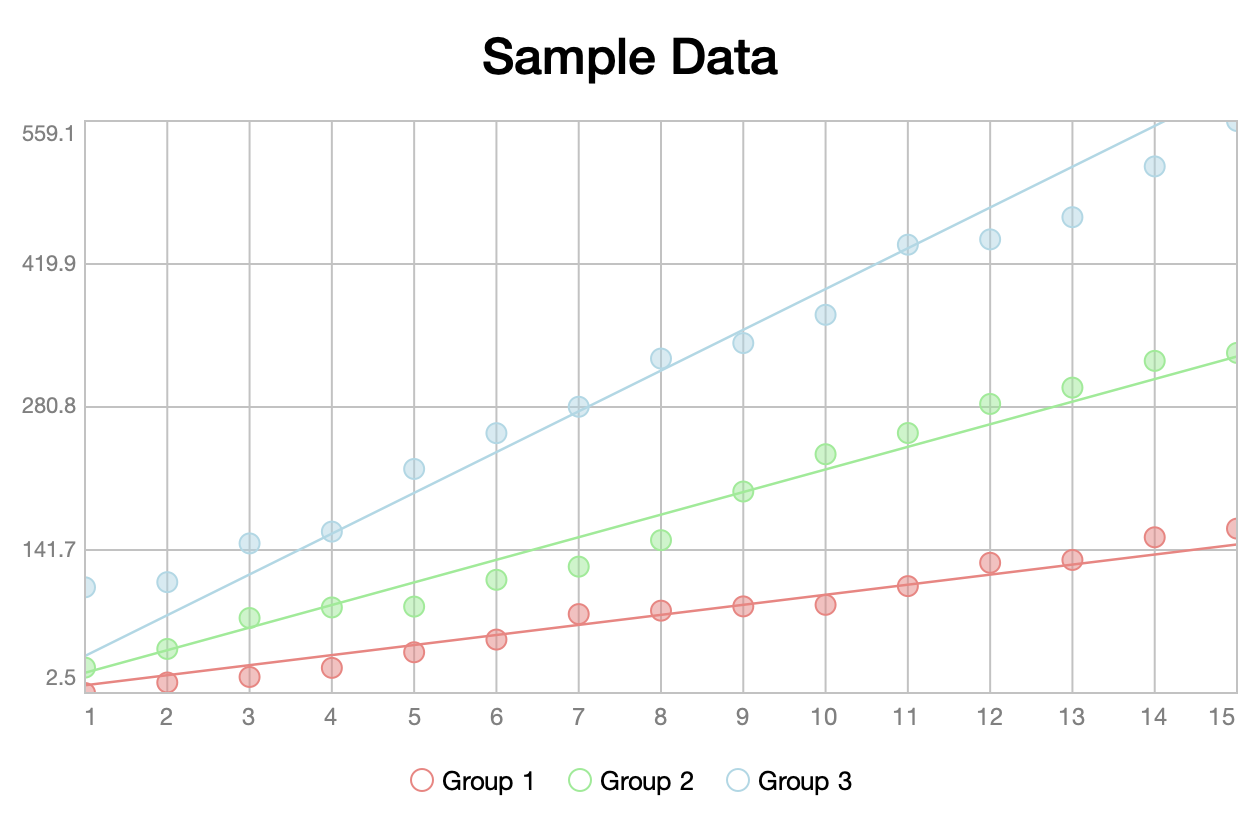
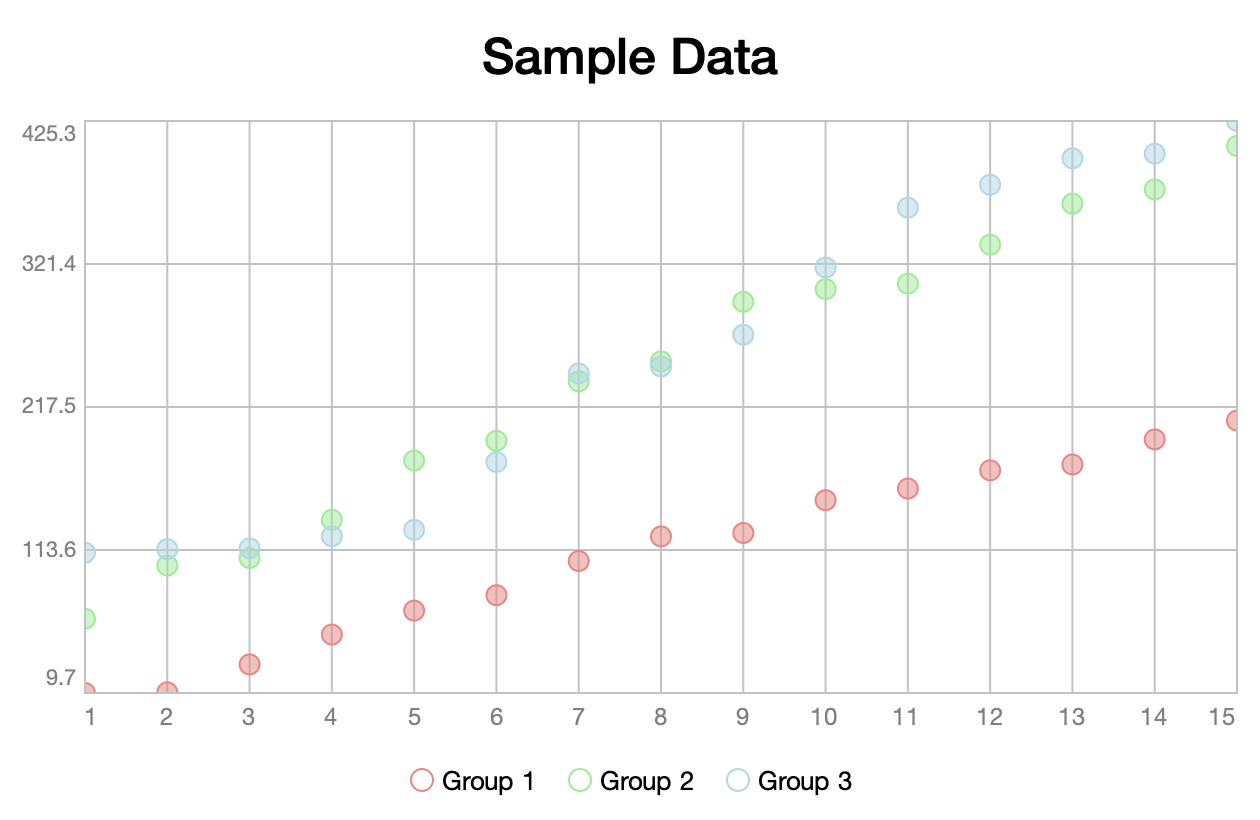
Update documentation.

diff --git a/sierra-test/src/main/java/org/httprpc/sierra/test/ChartsTest.java b/sierra-test/src/main/java/org/httprpc/sierra/test/ChartsTest.java
@@ -152,17 +152,14 @@ public class ChartsTest extends JFrame implements Runnable {
 
         var dataSets = createCategoryDataSets();
 
-        var rangeMaximum = 0.0;
-
-        for (var dataSet : dataSets) {
-            for (var value : dataSet.getDataPoints().values()) {
-                rangeMaximum = Math.max(rangeMaximum, value);
-            }
-        }
-
-        barChart.setRangeBounds(0.0, rangeMaximum + rangeMaximum * 0.04);
-
         barChart.setDataSets(dataSets);
+
+        barChart.validate();
+
+        var rangeMinimum = barChart.getRangeMinimum();
+        var rangeMaximum = barChart.getRangeMaximum().doubleValue();
+
+        barChart.setRangeBounds(rangeMinimum, rangeMaximum + rangeMaximum * 0.04);
 
         return barChart;
     }
@@ -212,6 +209,8 @@ public class ChartsTest extends JFrame implements Runnable {
     }
 
     private TimeSeriesChart<Integer, Double> createTimeSeriesChart() {
+        var showValueMarkers = coalesce(map(System.getProperty("showValueMarkers"), Boolean::valueOf), () -> false);
+
         var colors = listOf(
             UILoader.getColor("light-coral"),
             UILoader.getColor("light-green"),
@@ -222,10 +221,7 @@ public class ChartsTest extends JFrame implements Runnable {
 
         var dataSets = new ArrayList<DataSet<Integer, Double>>(m);
 
-        var n = 250;
-
-        var rangeMinimum = Double.POSITIVE_INFINITY;
-        var rangeMaximum = Double.NEGATIVE_INFINITY;
+        var n = showValueMarkers ? 25 : 250;
 
         for (var i = 0; i < m; i++) {
             var dataSet = new DataSet<Integer, Double>(String.format("Data Set %d", i + 1), colors.get(i));
@@ -241,9 +237,6 @@ public class ChartsTest extends JFrame implements Runnable {
                 }
 
                 dataPoints.put(j, value);
-
-                rangeMinimum = Math.min(rangeMinimum, value);
-                rangeMaximum = Math.max(rangeMaximum, value);
             }
 
             dataSet.setDataPoints(dataPoints);
@@ -252,6 +245,8 @@ public class ChartsTest extends JFrame implements Runnable {
         }
 
         var timeSeriesChart = new TimeSeriesChart<Integer, Double>(key -> key, Number::intValue);
+
+        timeSeriesChart.setShowValueMarkers(showValueMarkers);
 
         var rangeLabelFormat = NumberFormat.getNumberInstance();
 
@@ -265,27 +260,36 @@ public class ChartsTest extends JFrame implements Runnable {
             BasicStroke.JOIN_MITER,
             1.0f, new float[] {2.0f}, 0.0f));
 
+        timeSeriesChart.setDataSets(dataSets);
+
+        timeSeriesChart.validate();
+
+        var rangeMinimum = timeSeriesChart.getRangeMinimum().doubleValue();
+        var rangeMaximum = timeSeriesChart.getRangeMaximum().doubleValue();
+
         var rangeMargin = Math.abs(rangeMaximum - rangeMinimum) * 0.02;
 
         timeSeriesChart.setRangeBounds(rangeMinimum - rangeMargin, rangeMaximum + rangeMargin);
 
-        timeSeriesChart.setDataSets(dataSets);
+        if (!showValueMarkers) {
+            var icon = new FlatSVGIcon(getClass().getResource("icons/flag_24dp.svg"));
 
-        var icon = new FlatSVGIcon(getClass().getResource("icons/flag_24dp.svg"));
+            icon = icon.derive(18, 18);
 
-        icon = icon.derive(18, 18);
+            icon.setColorFilter(new FlatSVGIcon.ColorFilter(color -> timeSeriesChart.getMarkerColor()));
 
-        icon.setColorFilter(new FlatSVGIcon.ColorFilter(color -> timeSeriesChart.getMarkerColor()));
-
-        timeSeriesChart.setDomainMarkers(listOf(
-            new Chart.Marker<>((int)(Math.random() * n), null, "Marker 1", icon),
-            new Chart.Marker<>((int)(Math.random() * n), null, "Marker 2", icon)
-        ));
+            timeSeriesChart.setDomainMarkers(listOf(
+                new Chart.Marker<>((int)(Math.random() * n), null, "Marker 1", icon),
+                new Chart.Marker<>((int)(Math.random() * n), null, "Marker 2", icon)
+            ));
+        }
 
         return timeSeriesChart;
     }
 
     private ScatterChart<Integer, Double> createScatterChart() {
+        var showTrendLines = coalesce(map(System.getProperty("showTrendLines"), Boolean::valueOf), () -> false);
+
         var colors = listOf(
             UILoader.getColor("light-coral"),
             UILoader.getColor("light-green"),
@@ -320,7 +324,7 @@ public class ChartsTest extends JFrame implements Runnable {
 
         var scatterChart = new ScatterChart<Integer, Double>(key -> key, Number::intValue);
 
-        scatterChart.setShowTrendLines(true);
+        scatterChart.setShowTrendLines(showTrendLines);
         scatterChart.setValueMarkerTransparency(0.5);
 
         scatterChart.setDomainLabelCount(n);

diff --git a/charts-reference.md b/charts-reference.md
@@ -43,6 +43,8 @@ TODO
 ### Value Markers
 TODO
 
+<img src="README/charts/time-series-value-markers.png" width="630">
+
 ## Scatter Charts
 TODO
 
@@ -50,6 +52,8 @@ TODO
 
 ### Trend Lines
 TODO
+
+<img src="README/charts/scatter-trend-lines.png" width="630">
 
 ## Candlestick Charts
 TODO
